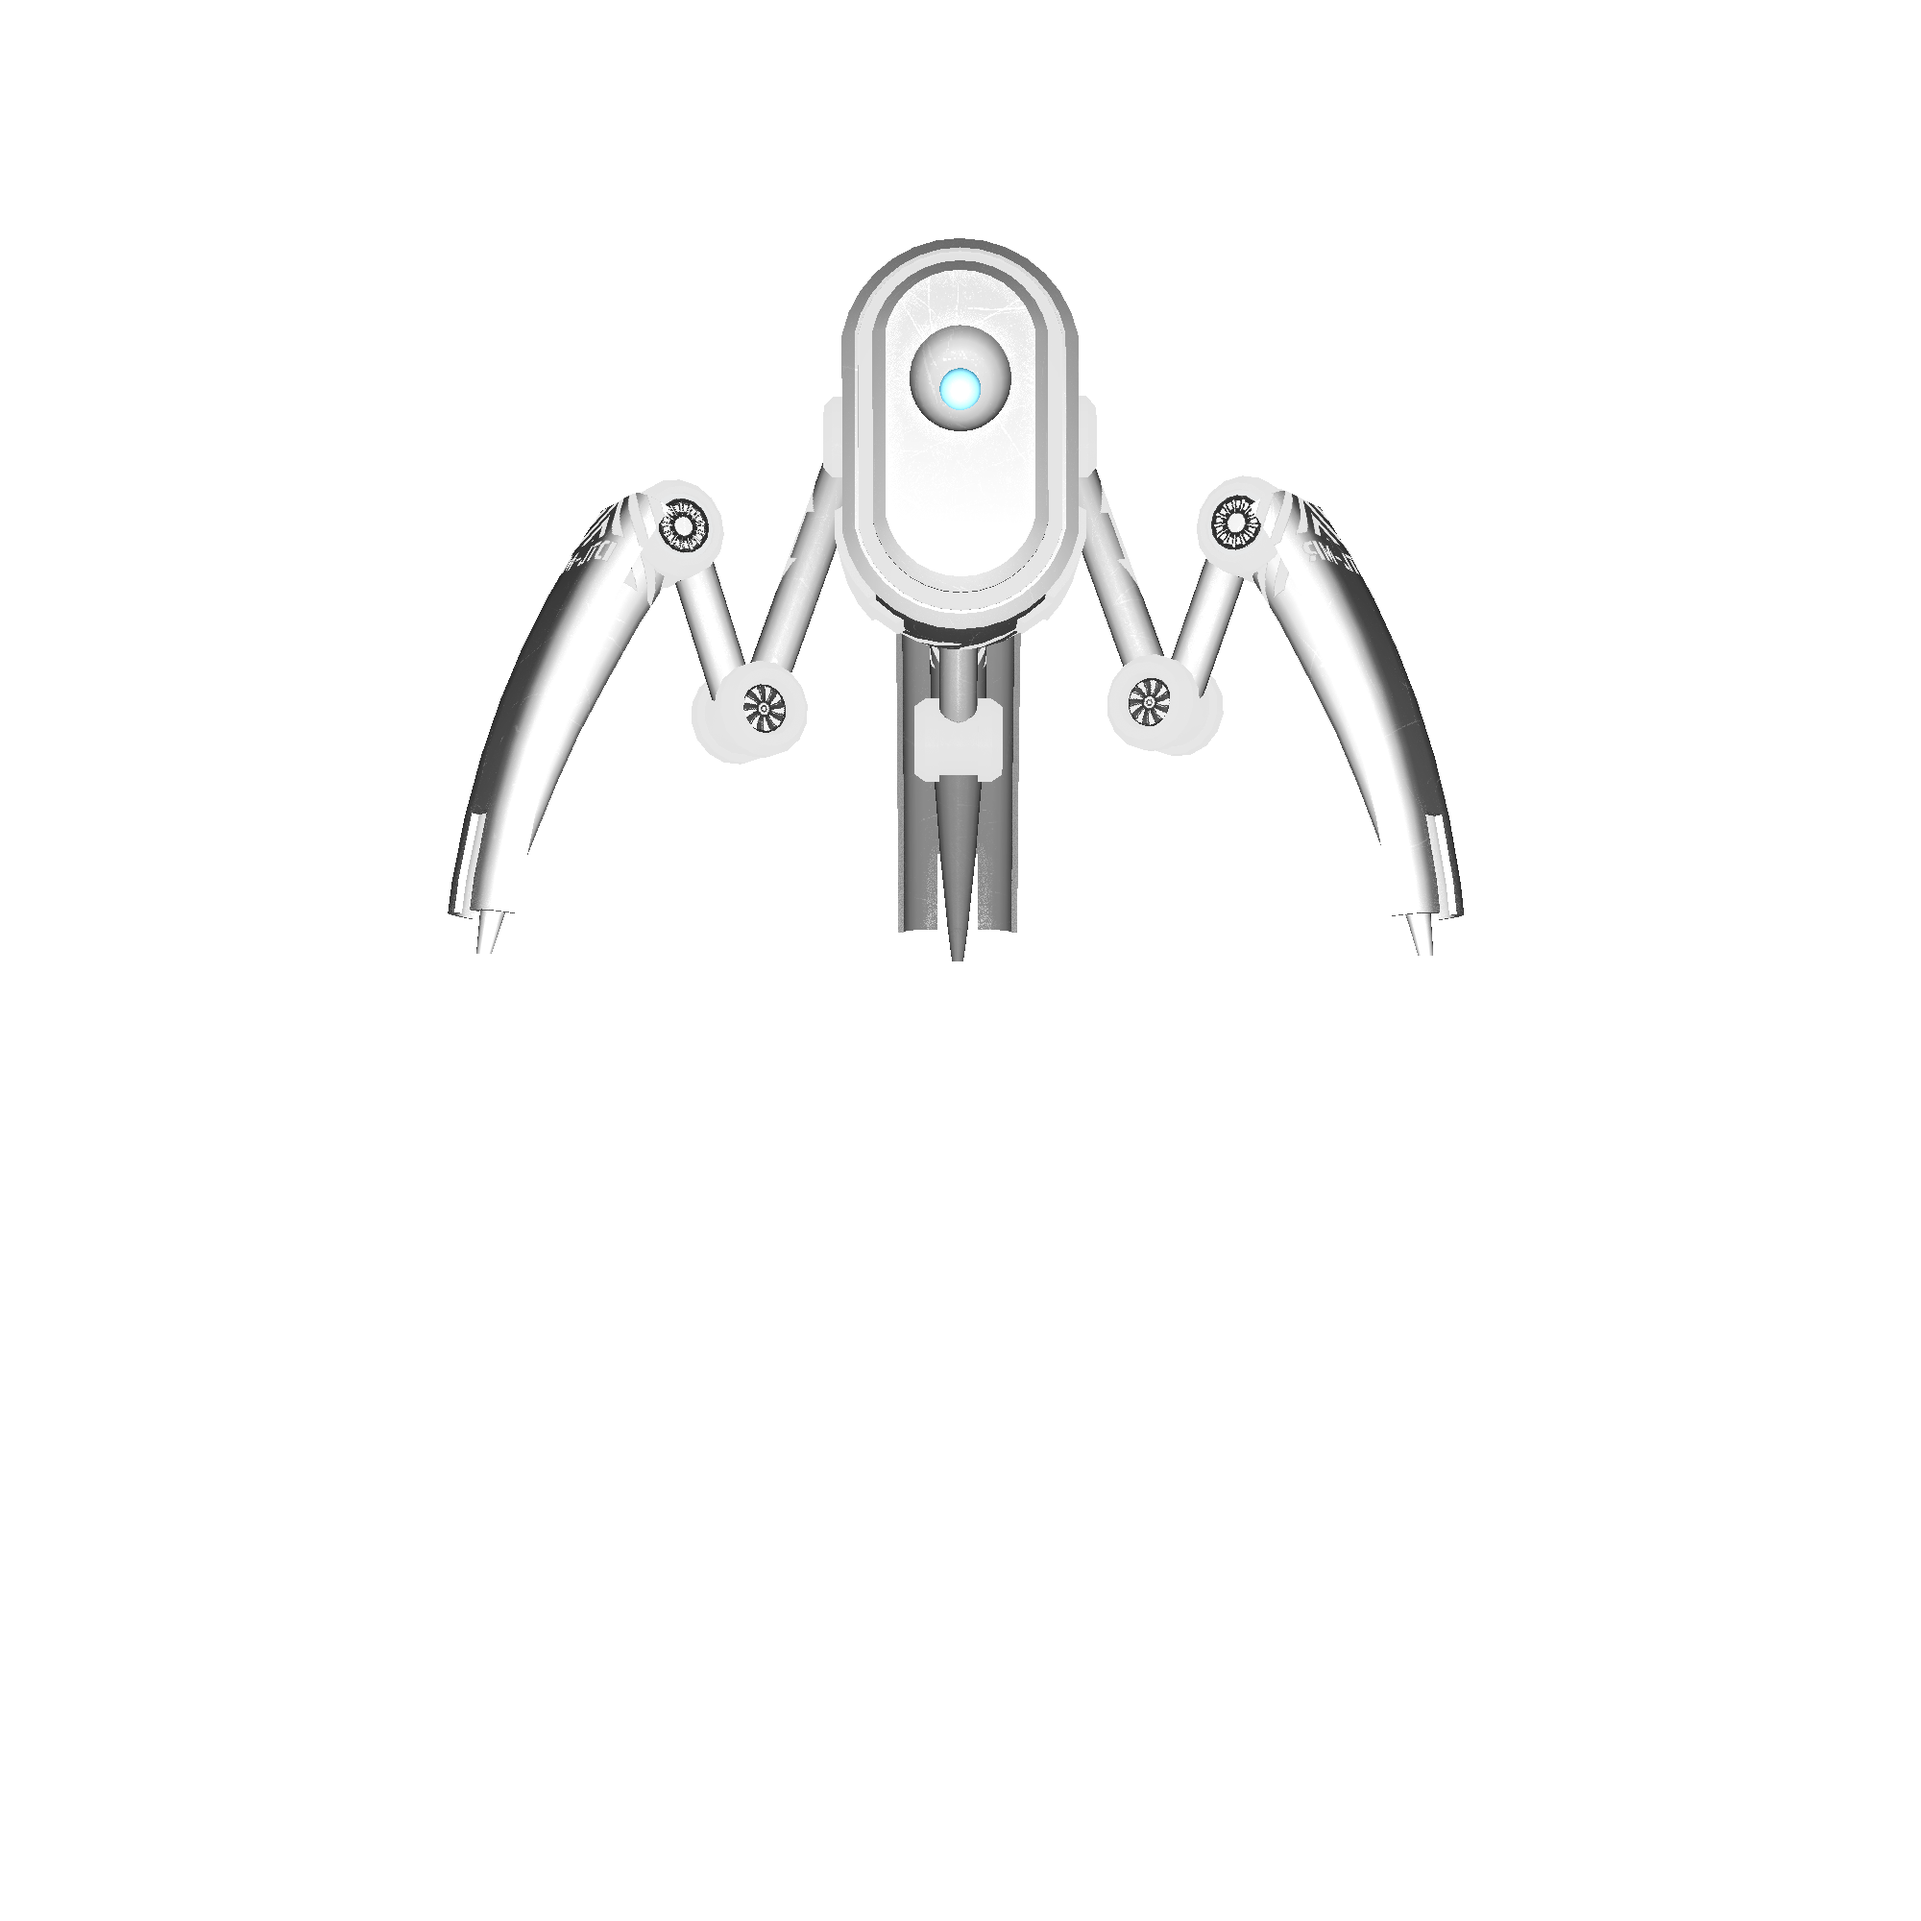
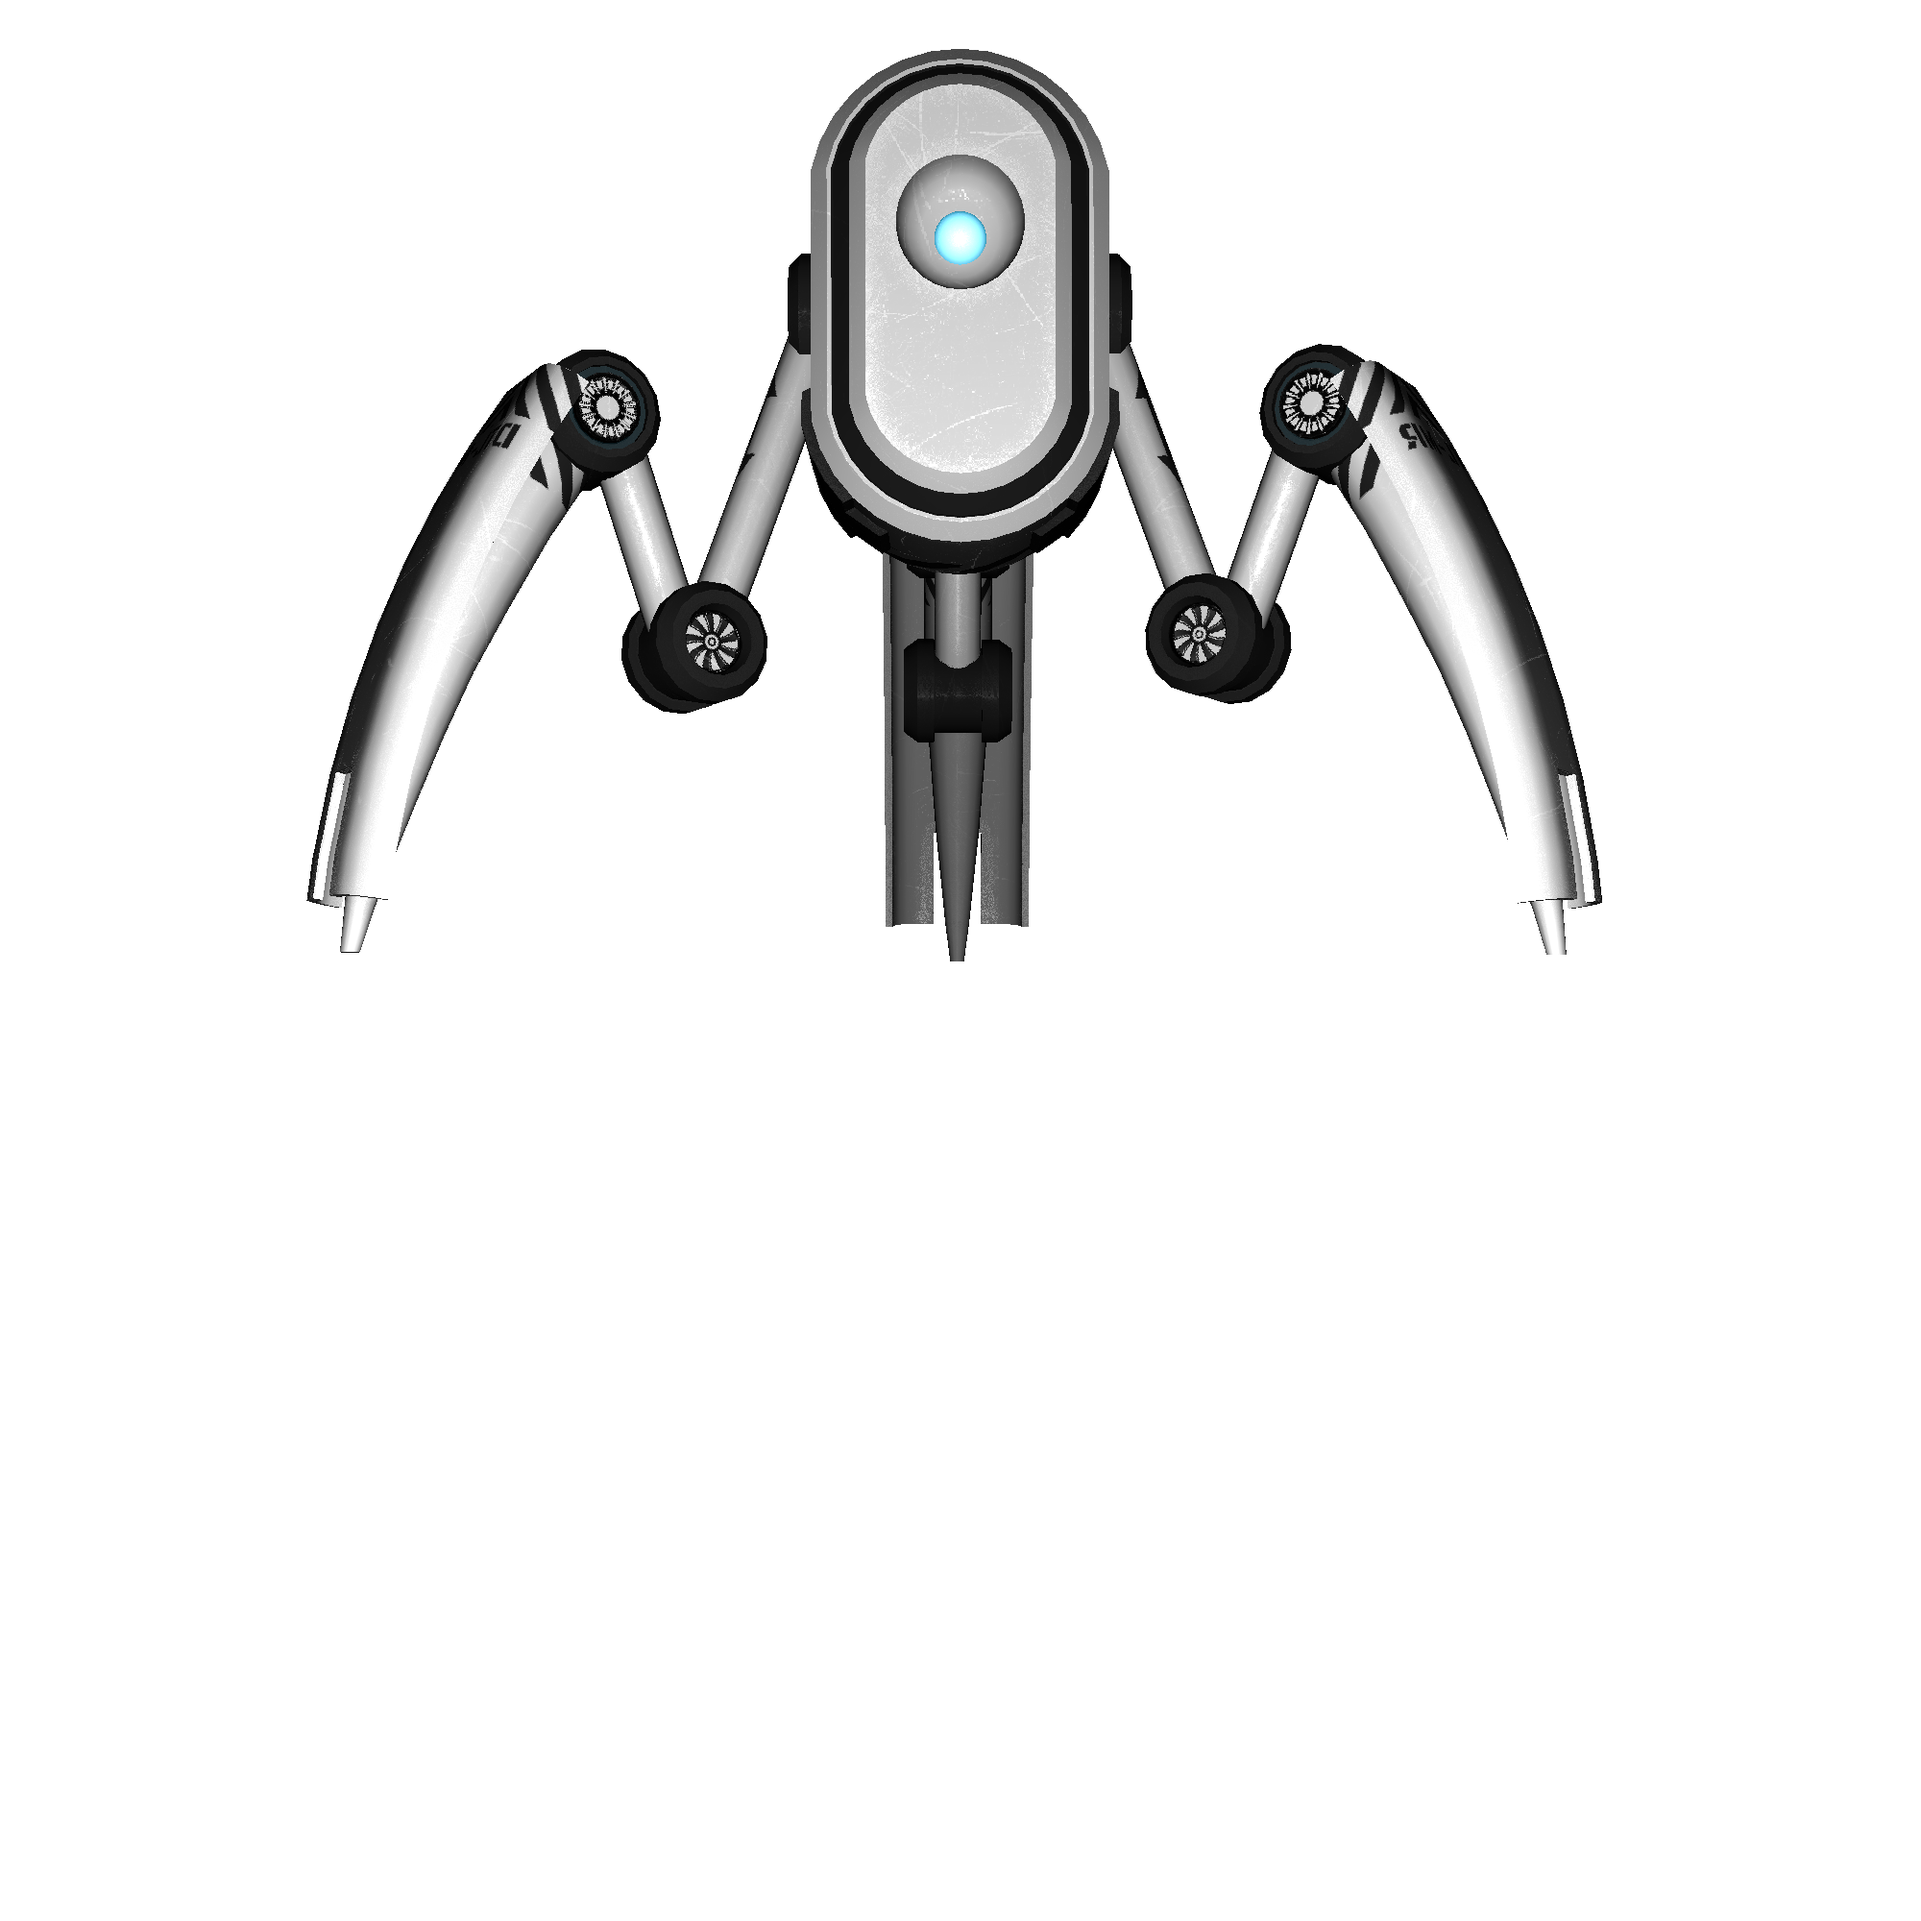
update example

Changed region(s): [[0.155, 0.0, 0.837, 0.496]]

diff --git a/crates/pipeline/src/renderer.rs b/crates/pipeline/src/renderer.rs
@@ -43,7 +43,7 @@ impl<'a> Renderer<'a> {
     pub fn new(desc: RendererDescriptor<'a>) -> Self {
         let pixel_count = desc.surface.height * desc.surface.width;
         Renderer {
-            frame_buffer: vec![255; pixel_count * desc.surface.format.size()],
+            frame_buffer: vec![0; pixel_count * desc.surface.format.size()],
             depth_buffer: vec![0.; pixel_count],
             bind_groups: vec![vec![]; 10],
             vertex_buffer: &[],
@@ -349,7 +349,7 @@ impl<'a> Renderer<'a> {
         self.frame_buffer[(width * y + x) * 4] = (color.x * 255.) as u8;
         self.frame_buffer[((width * y + x) * 4) + 1] = (color.y * 255.) as u8;
         self.frame_buffer[((width * y + x) * 4) + 2] = (color.z * 255.) as u8;
-        self.frame_buffer[((width * y + x) * 4) + 3] = (color.w * 255.) as u8;
+        self.frame_buffer[((width * y + x) * 4) + 3] = 255;
     }
 
     pub fn draw_line(&mut self, line: (Vec2, Vec2)) -> Option<()> {

diff --git a/example/pbr.rs b/example/pbr.rs
@@ -44,12 +44,12 @@ fn main() {
     };
 
     let camera = Camera::default()
-        .with_transform(Transform::from_xyz(0., 0., 20.).looking_at(Vec3::ZERO, Vec3::NEG_Y));
+        .with_transform(Transform::from_xyz(0., 0., 16.).looking_at(Vec3::ZERO, Vec3::NEG_Y));
 
     let light = PointLight {
         intensity: 1000.,
         range: 30.,
-        transform: Transform::from_xyz(0., 0., 15.),
+        transform: Transform::from_xyz(0., 0., 16.),
         ..Default::default()
     };
     let mut renderer = Renderer::new(desc);
